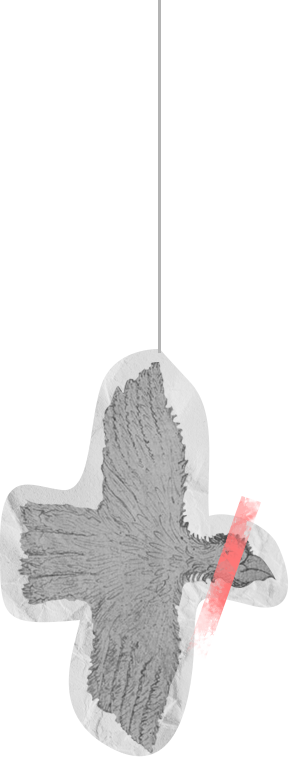
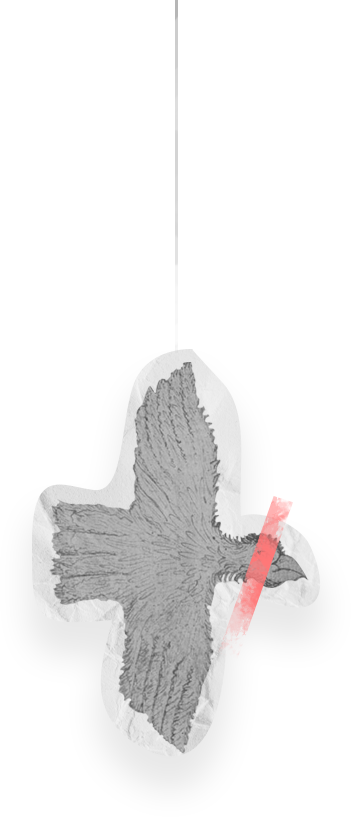
correctif chap 3 part 3

Changed region(s): [[0.0, 0.0, 0.9965, 1.0], [0.654, 0.4861, 0.6851, 0.5165]]

diff --git a/chap3/part3/index.html b/chap3/part3/index.html
@@ -25,7 +25,9 @@
                 data-parallax="5">
             <img id="chap03_part03_valhalla" src="/media/images/chap_03_part_03/valhalla.png" alt="Valhalla"
                 data-parallax="2">
-            <img id="chap03_part03_yggdrasil" src="/media/images/chap_03_part_03/yggdrasil.png" alt="Yggdrasil"
+            <img id="chap03_part03_tonneau1" src="/media/images/chap_03_part_03/tonneau_top.png" alt="tonneau"
+                data-parallax="-1">
+            <img id="chap03_part03_tonneau2" src="/media/images/chap_03_part_03/tonneau_bot.png" alt="tonneau"
                 data-parallax="-3">
         </div>
 

diff --git a/styles.css b/styles.css
@@ -885,8 +885,16 @@ img[data-parallax] {
     right: 0vw;   
 }
 
-#chap03_part03_yggdrasil {
-    height: 65%;
+#chap03_part03_tonneau1 {
+    height: 35%;
+
+    position: absolute;
+    top: -1vh;
+    right: 15vw;   
+}
+
+#chap03_part03_tonneau2 {
+    height: 55%;
 
     position: absolute;
     top: -3vh;
